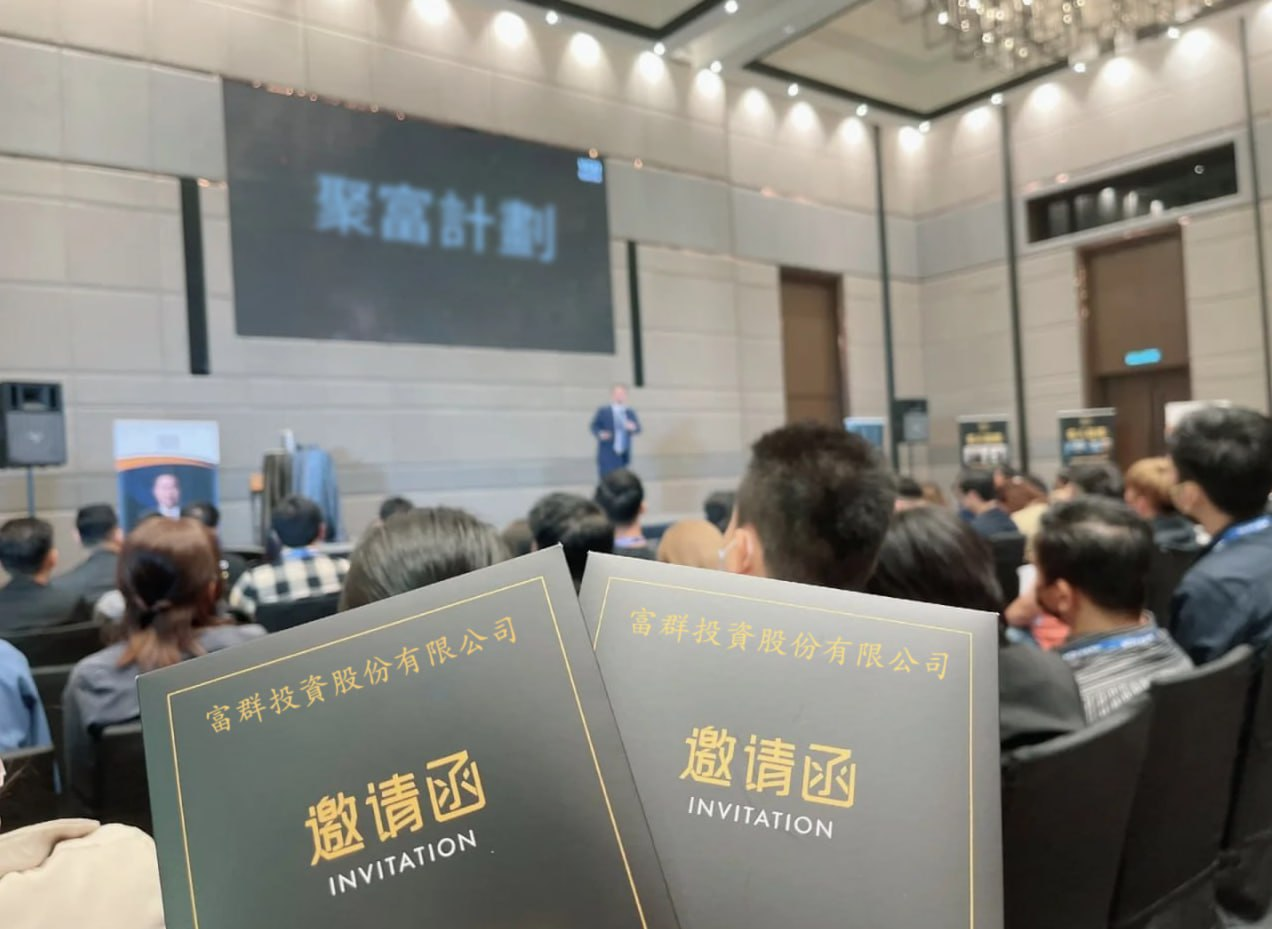
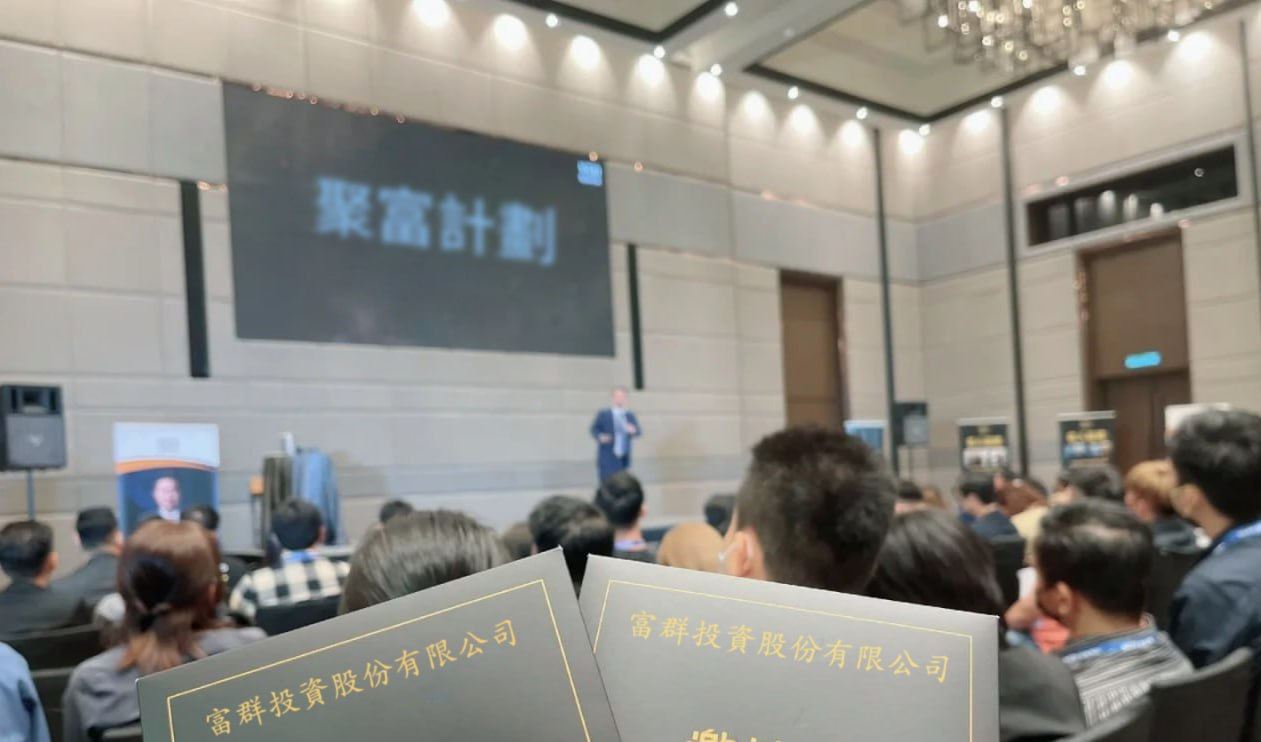
init

diff --git a/美國大選後的股市熱潮，富群投資領聚富計劃登場.html b/美國大選後的股市熱潮，富群投資領聚富計劃登場.html
@@ -16405,7 +16405,7 @@
                                                                         <div class=caas-figure-with-pb>
                                                                             <div>
                                                                                 <div class="caas-img-container caas-img-loader"
-                                                                                     style=padding-bottom:80%><img
+                                                                                     style=padding-bottom:60%><img
                                                                                         class="caas-img caas-lazy has-preview"
                                                                                         alt=資料來源
                                                                                         data-src='./p1.jpg'>
